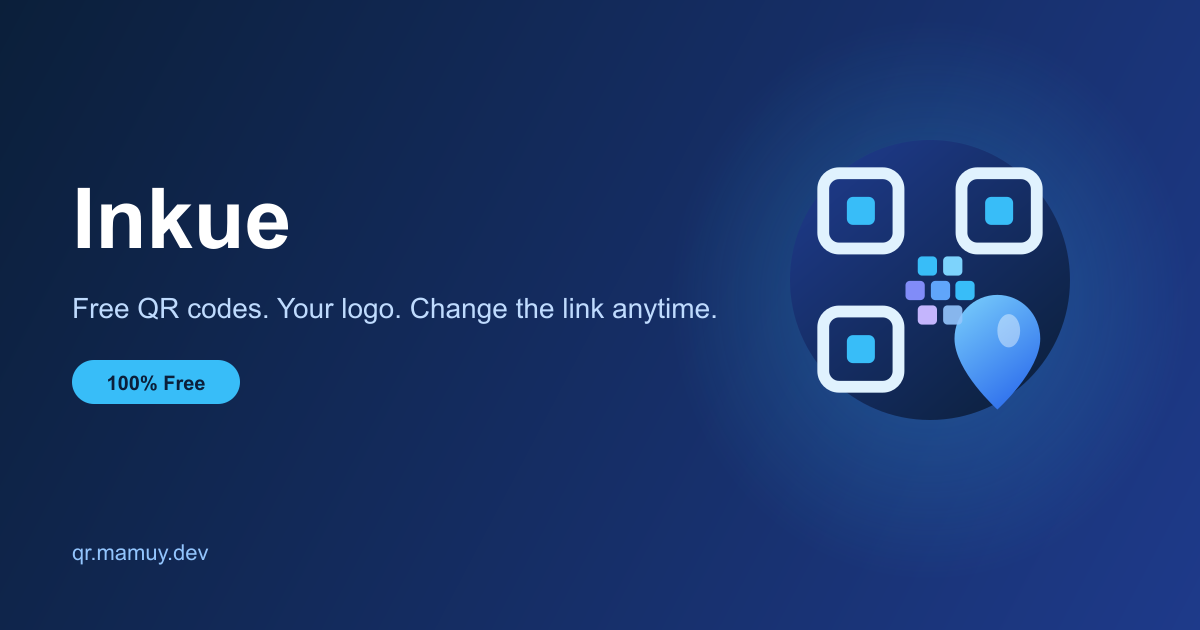
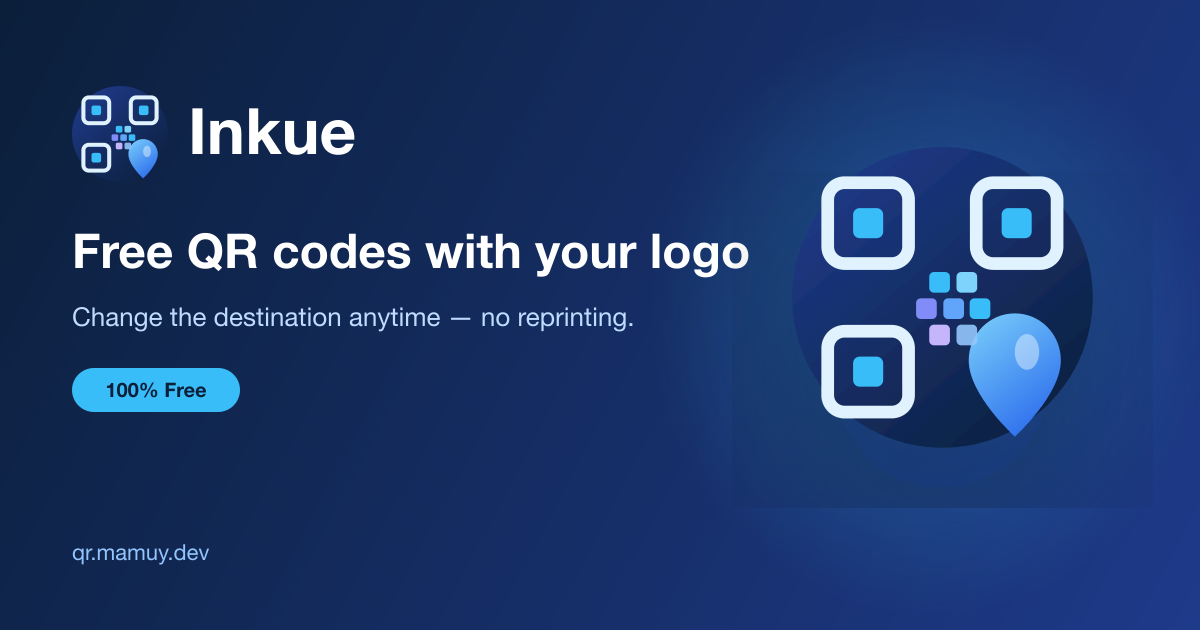
fix og

diff --git a/apps/web/src/i18n/metadata.ts b/apps/web/src/i18n/metadata.ts
@@ -1,14 +1,34 @@
 import type { Metadata } from "next";
+import { BRAND } from "@mamuy/shared";
 import type { Locale } from "./config";
 import { absoluteUrl } from "./path";
 
 const appUrl = () => process.env.NEXT_PUBLIC_APP_URL ?? "https://qr.mamuy.dev";
+const OG_VERSION = "3";
 
-export function localeAlternates(path: string, locale: Locale): Pick<Metadata, "alternates" | "openGraph"> {
+function assetUrl(path: string) {
+  return `${appUrl().replace(/\/$/, "")}${path}`;
+}
+
+export const OG_IMAGE = {
+  url: `${assetUrl("/og.png")}?v=${OG_VERSION}`,
+  secureUrl: `${assetUrl("/og.png")}?v=${OG_VERSION}`,
+  width: 1200,
+  height: 630,
+  alt: `${BRAND.name} logo — free QR codes with your logo`,
+  type: "image/png",
+} as const;
+
+export function localeUrls(path: string, locale: Locale) {
   const base = appUrl();
   const en = absoluteUrl(path, "en", base);
   const th = absoluteUrl(path, "th", base);
   const canonical = locale === "th" ? th : en;
+  return { en, th, canonical };
+}
+
+export function localeAlternates(path: string, locale: Locale): Pick<Metadata, "alternates"> {
+  const { en, th, canonical } = localeUrls(path, locale);
   return {
     alternates: {
       canonical,
@@ -18,10 +38,32 @@ export function localeAlternates(path: string, locale: Locale): Pick<Metadata, "
         "x-default": en,
       },
     },
+  };
+}
+
+export function socialMetadata(
+  path: string,
+  locale: Locale,
+  meta: { title: string; description: string },
+): Pick<Metadata, "openGraph" | "twitter"> {
+  const { canonical } = localeUrls(path, locale);
+  const image = { ...OG_IMAGE, alt: meta.title };
+  return {
     openGraph: {
+      type: "website",
+      siteName: BRAND.name,
+      title: meta.title,
+      description: meta.description,
+      url: canonical,
       locale: locale === "th" ? "th_TH" : "en_US",
       alternateLocale: locale === "th" ? ["en_US"] : ["th_TH"],
-      url: canonical,
+      images: [image],
+    },
+    twitter: {
+      card: "summary_large_image",
+      title: meta.title,
+      description: meta.description,
+      images: [image.url],
     },
   };
 }
@@ -31,10 +73,10 @@ export function publicPageMetadata(
   locale: Locale,
   meta: { title: string; description: string },
 ): Metadata {
-  const alt = localeAlternates(path, locale);
   return {
     title: meta.title,
     description: meta.description,
-    ...alt,
+    ...localeAlternates(path, locale),
+    ...socialMetadata(path, locale, meta),
   };
 }

diff --git a/apps/web/src/app/[locale]/layout.tsx b/apps/web/src/app/[locale]/layout.tsx
@@ -7,6 +7,7 @@ import { GoogleAnalytics } from "@/components/GoogleAnalytics";
 import { Providers } from "@/components/Providers";
 import { SiteShell } from "@/components/SiteShell";
 import { LOCALES, isLocale } from "@/i18n/config";
+import { OG_IMAGE } from "@/i18n/metadata";
 import { resolveLocale } from "@/i18n/server";
 import { getMessages, createTranslator } from "@/i18n/translate";
 import { authOptions } from "@/lib/auth";
@@ -42,6 +43,8 @@ export async function generateMetadata({ params }: { params: Promise<{ locale: s
   const tagline = t("brand.tagline");
   const description = t("brand.description", { name: BRAND.name });
   const title = `${BRAND.name} | ${tagline}`;
+  const ogTitle = t("brand.ogTitle");
+  const ogDescription = t("brand.ogDescription");
   return {
     metadataBase: new URL(appUrl),
     title: {
@@ -58,17 +61,18 @@ export async function generateMetadata({ params }: { params: Promise<{ locale: s
     openGraph: {
       type: "website",
       siteName: BRAND.name,
-      title,
-      description,
-      images: [{ url: "/og.png", width: 1200, height: 630, alt: title }],
+      title: ogTitle,
+      description: ogDescription,
+      url: appUrl,
+      images: [{ ...OG_IMAGE, alt: `${BRAND.name} logo` }],
       locale: locale === "th" ? "th_TH" : "en_US",
       alternateLocale: locale === "th" ? ["en_US"] : ["th_TH"],
     },
     twitter: {
       card: "summary_large_image",
-      title,
-      description,
-      images: ["/og.png"],
+      title: ogTitle,
+      description: ogDescription,
+      images: [OG_IMAGE.url],
     },
     verification: {
       google: "zLj3F4ZvVBOWSMEDWDvxCF1srWh0mQ9N81k094zHC5c",

diff --git a/apps/web/src/middleware.ts b/apps/web/src/middleware.ts
@@ -3,6 +3,9 @@ import type { NextRequest } from "next/server";
 import { LOCALE_COOKIE, LOCALE_HEADER, type Locale } from "@/i18n/config";
 import { localeFromPathname, localizedPath, stripLocalePrefix } from "@/i18n/path";
 
+const CRAWLER_UA =
+  /facebookexternalhit|Facebot|Twitterbot|LinkedInBot|WhatsApp|Slackbot|Discordbot|TelegramBot|Googlebot|bingbot|Applebot/i;
+
 function isSkipped(pathname: string) {
   if (pathname.startsWith("/api")) return true;
   if (pathname.startsWith("/_next")) return true;
@@ -19,7 +22,9 @@ function withLocaleHeaders(req: NextRequest, locale: Locale, init?: { rewrite?: 
     ? NextResponse.rewrite(init.rewrite, { request: { headers: requestHeaders } })
     : NextResponse.next({ request: { headers: requestHeaders } });
   res.headers.set(LOCALE_HEADER, locale);
-  res.cookies.set(LOCALE_COOKIE, locale, { path: "/", maxAge: 60 * 60 * 24 * 365, sameSite: "lax" });
+  if (!CRAWLER_UA.test(req.headers.get("user-agent") ?? "")) {
+    res.cookies.set(LOCALE_COOKIE, locale, { path: "/", maxAge: 60 * 60 * 24 * 365, sameSite: "lax" });
+  }
   return res;
 }
 

diff --git a/apps/web/src/app/[locale]/page.tsx b/apps/web/src/app/[locale]/page.tsx
@@ -9,7 +9,7 @@ import { FeatureFrames } from "@/components/FeatureFrames";
 import { LocaleLink } from "@/components/LocaleLink";
 import { Odometer, OdometerCaption } from "@/components/Odometer";
 import { getApiUrl } from "@/lib/api";
-import { localeAlternates } from "@/i18n/metadata";
+import { publicPageMetadata } from "@/i18n/metadata";
 import { getT, resolveLocale } from "@/i18n/server";
 
 async function getTotalQr() {
@@ -30,9 +30,12 @@ export async function generateMetadata({ params }: Props): Promise<Metadata> {
   const { t } = await getT(locale);
   const title = `${BRAND.name} | ${t("brand.tagline")}`;
   return {
+    ...publicPageMetadata("/", locale, {
+      title: t("brand.ogTitle"),
+      description: t("brand.ogDescription"),
+    }),
     title: { absolute: title },
     description: t("brand.description", { name: BRAND.name }),
-    ...localeAlternates("/", locale),
   };
 }
 

diff --git a/apps/web/src/i18n/messages/th.ts b/apps/web/src/i18n/messages/th.ts
@@ -4,6 +4,8 @@ export const th: Messages = {
   brand: {
     tagline: "สร้าง QR ฟรี ใส่โลโก้ได้ เปลี่ยนลิงก์ได้ทุกเมื่อ",
     description: "{name} สร้าง QR ฟรี ใส่โลโก้ได้ เปลี่ยนลิงก์ได้ทุกเมื่อ โดยไม่ต้องพิมพ์ใหม่ พร้อมนับยอดสแกน",
+    ogTitle: "Inkue — สร้าง QR ฟรี ใส่โลโก้ได้",
+    ogDescription: "สร้าง QR ฟรี ใส่โลโก้ได้ เปลี่ยนลิงก์ได้ทุกเมื่อ โดยไม่ต้องพิมพ์ใหม่ พร้อมนับยอดสแกน",
   },
   nav: {
     faq: "คำถามที่พบบ่อย",

diff --git a/apps/web/src/app/robots.ts b/apps/web/src/app/robots.ts
@@ -2,9 +2,24 @@ import type { MetadataRoute } from "next";
 
 const appUrl = process.env.NEXT_PUBLIC_APP_URL ?? "https://qr.mamuy.dev";
 
+const SOCIAL_CRAWLERS = [
+  "facebookexternalhit",
+  "Facebot",
+  "Twitterbot",
+  "LinkedInBot",
+  "WhatsApp",
+  "Slackbot",
+  "Discordbot",
+  "TelegramBot",
+];
+
 export default function robots(): MetadataRoute.Robots {
   return {
     rules: [
+      ...SOCIAL_CRAWLERS.map((userAgent) => ({
+        userAgent,
+        allow: "/",
+      })),
       {
         userAgent: "*",
         allow: "/",

diff --git a/apps/web/src/i18n/messages/en.ts b/apps/web/src/i18n/messages/en.ts
@@ -3,6 +3,9 @@ export const en = {
     tagline: "Free QR codes with logos — change the link anytime",
     description:
       "{name} — free QR codes with your logo. Change the destination anytime without reprinting, and track every scan.",
+    ogTitle: "Inkue — Free QR codes with your logo",
+    ogDescription:
+      "Create free QR codes with your logo. Change the destination anytime without reprinting, and track every scan.",
   },
   nav: {
     faq: "FAQ",

diff --git a/apps/web/next.config.ts b/apps/web/next.config.ts
@@ -17,6 +17,17 @@ const nextConfig: NextConfig = {
       { protocol: "https", hostname: "sgp1.digitaloceanspaces.com" },
     ],
   },
+  async headers() {
+    return [
+      {
+        source: "/og.png",
+        headers: [
+          { key: "Cache-Control", value: "public, max-age=86400, immutable" },
+          { key: "Access-Control-Allow-Origin", value: "*" },
+        ],
+      },
+    ];
+  },
 };
 
 export default nextConfig;
